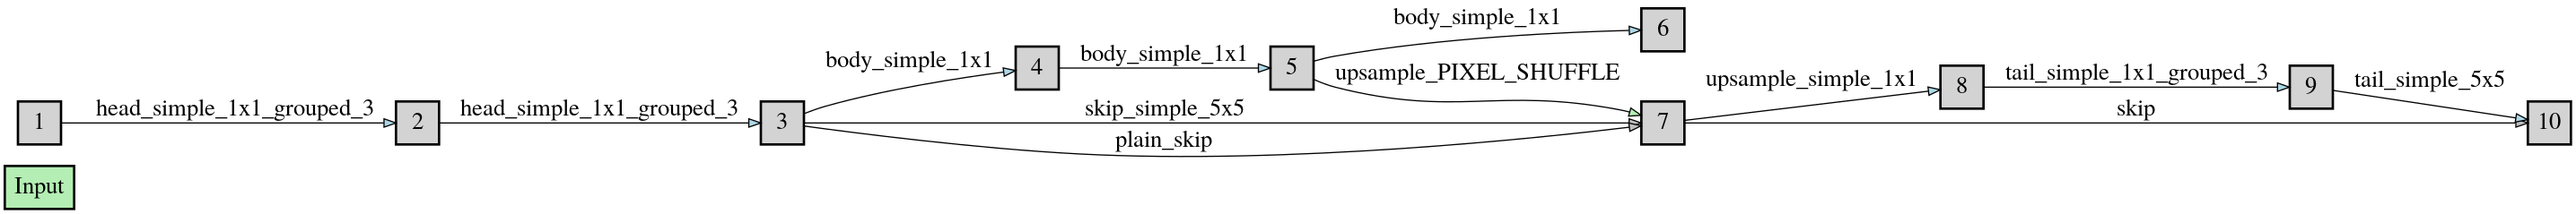
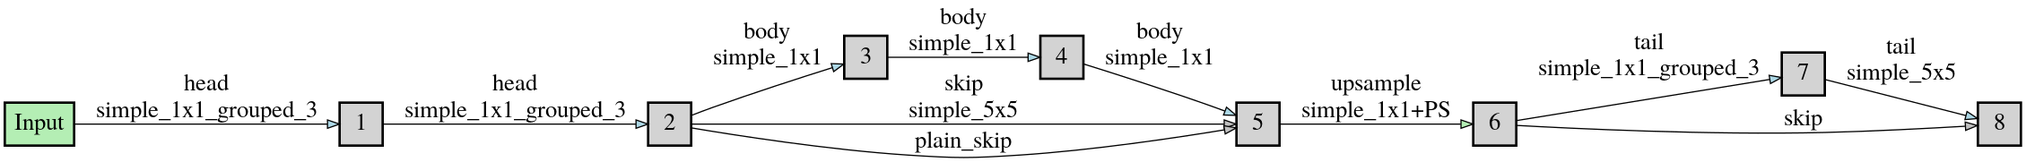
visualizw

diff --git a/visualize.py b/visualize.py
@@ -110,41 +110,45 @@ def plot_sr(genotype, file_path, caption=None):
 
     parts = ["head", "body", "upsample", "tail"]
 
-    node_n = 1
+    node_n = 0
     for name in parts:
         layers = getattr(genotype, name)
         if name == "body":
             body_start = node_n
-            body_end = node_n + len(parts)
+            body_end = node_n + len(parts) - 1
 
         if name == "upsample":
+            f = getattr(genotype, "upsample")[0]
+
             g.edge(
-                current_n,
+                str(node_n),
                 str(node_n + 1),
-                label=f"{name}_PIXEL_SHUFFLE",
+                label=f"{name}\n{f}+PS",
                 fillcolor="darkseagreen2",
             )
             node_n += 1
             pixel_up_node = node_n
+            continue
 
         for op in layers:
             if node_n == 0:
                 current_n = "Input"
-            current_n = str(node_n)
+            else:
+                current_n = str(node_n)
             g.edge(
                 current_n,
                 str(node_n + 1),
-                label=f"{name}_{op}",
+                label=f"{name}\n{op}",
                 fillcolor="lightblue",
             )
             node_n += 1
 
     # body_skip_node
-    body_skip = layers = getattr(genotype, "skip")[0]
+    body_skip = getattr(genotype, "skip")[0]
     g.edge(
         str(body_start),
         str(body_end),
-        label=f"skip_{body_skip}",
+        label=f"skip\n{body_skip}",
         fillcolor="gray",
     )
     g.edge(

diff --git a/search_sr.py b/search_sr.py
@@ -233,18 +233,18 @@ def log_genotype(
     plot_path = os.path.join(
         cfg.env.save, cfg.env.im_dir, "EP{:02d}".format(epoch + 1)
     )
-    caption = "Epoch {}   FLOPS {:.2e}  search PSNR: {:.3f}".format(
+    caption = "Epoch {}   FLOPS {:.2e}  search LOSS: {:.3f}".format(
         epoch + 1, best_current_flops, psnr
     )
 
-    # im_normal = plot_sr(genotype.normal, plot_path + "-normal", caption)
+    im_normal = plot_sr(genotype.normal, plot_path + "-normal", caption)
 
-    # writer.add_image(
-    #     tag=f"SR_im_normal_best_{best}",
-    #     img_tensor=np.array(im_normal),
-    #     dataformats="HWC",
-    #     global_step=cur_step,
-    # )
+    writer.add_image(
+        tag=f"SR_im_normal_best_{best}",
+        img_tensor=np.array(im_normal),
+        dataformats="HWC",
+        global_step=cur_step,
+    )
 
 
 def train(
